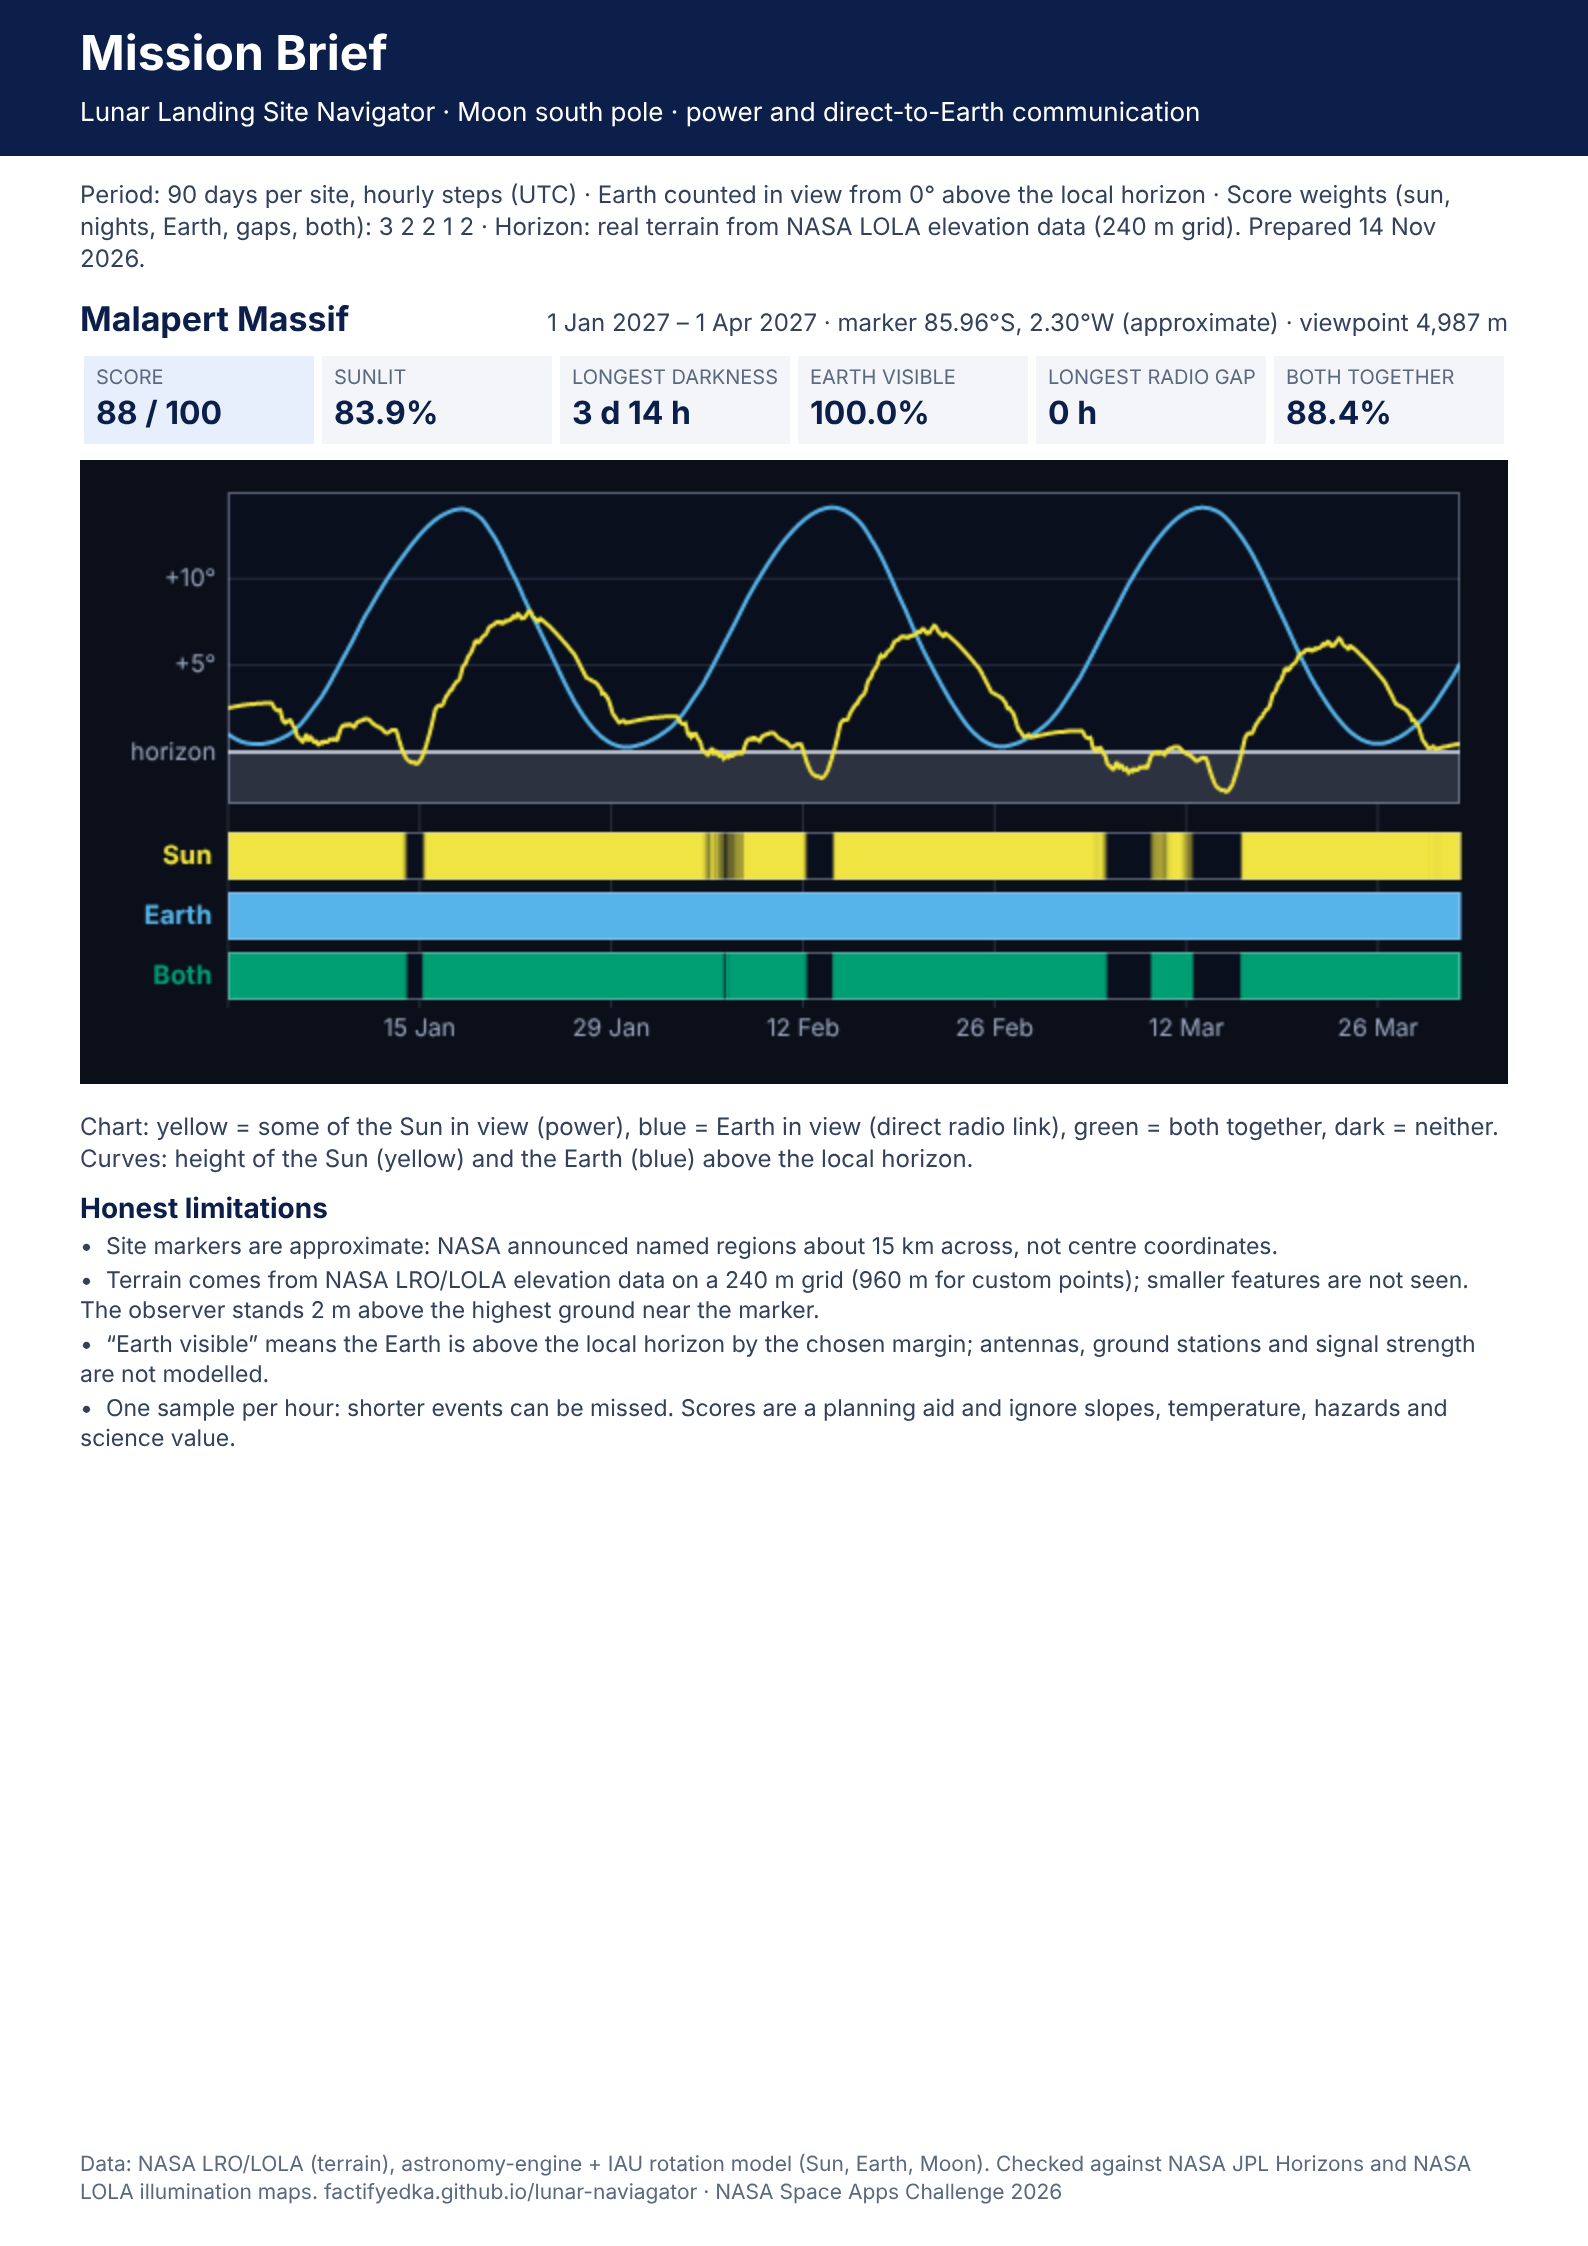
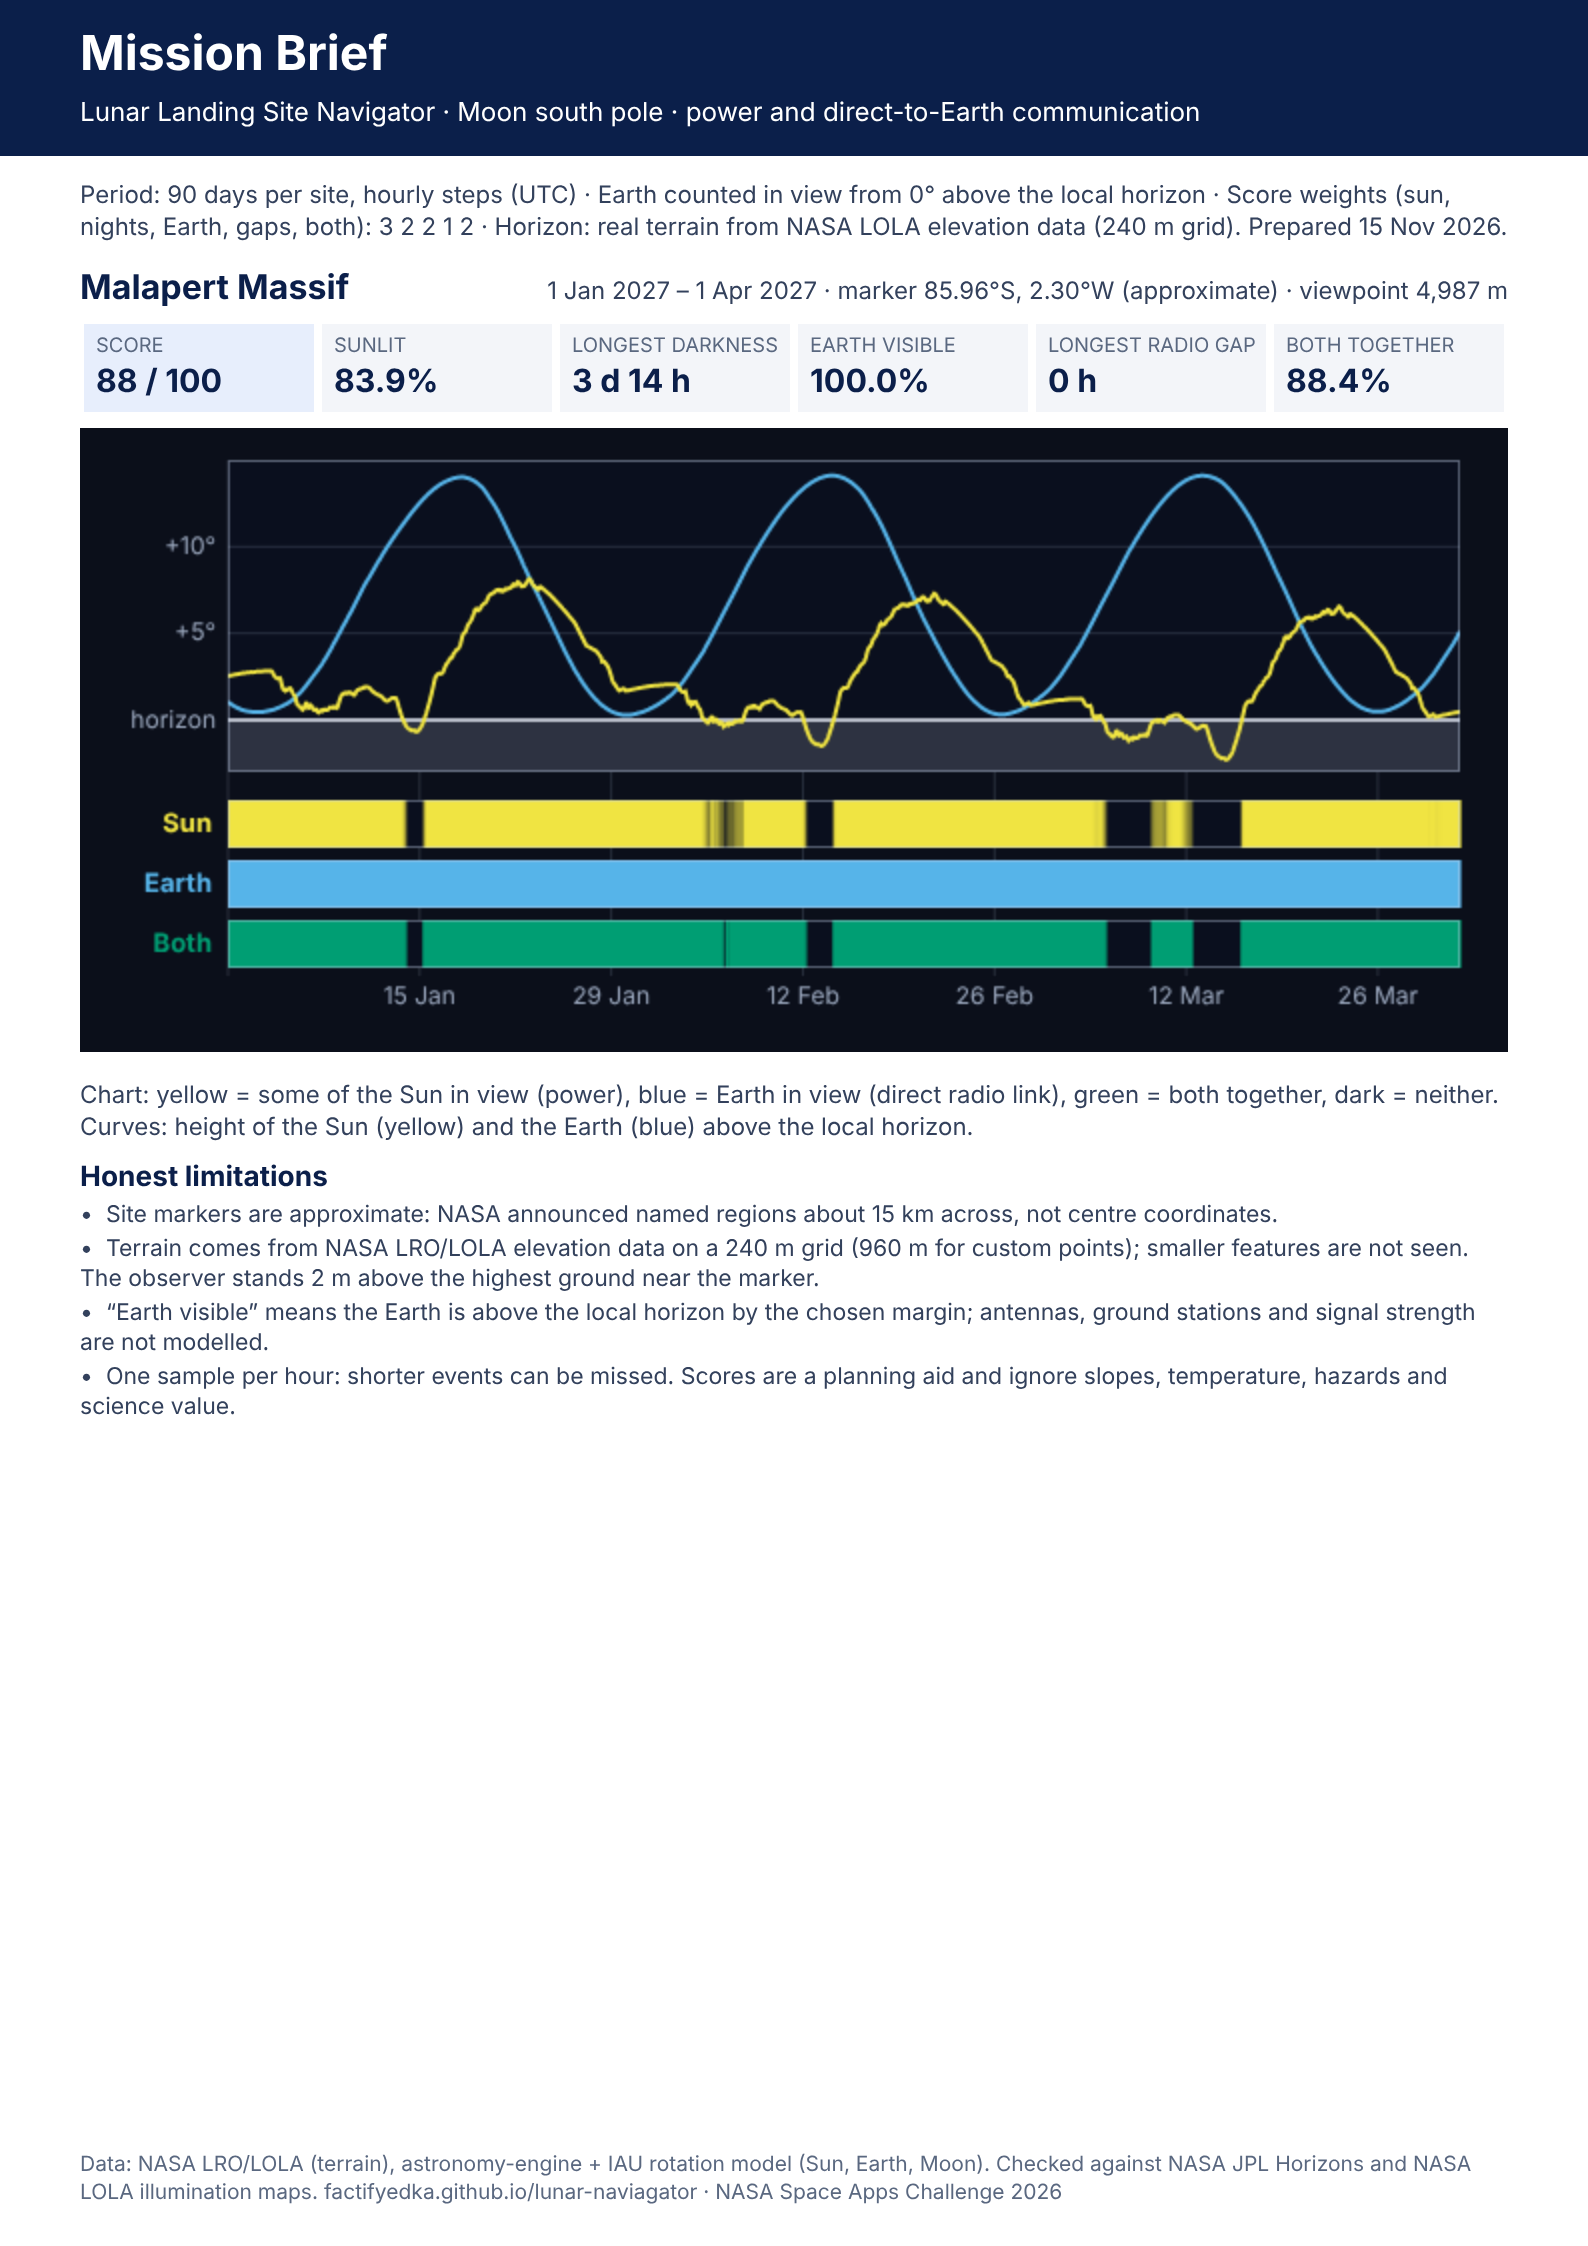
Add team name and member to About, SUBMISSION.md and DEMO.md
Team --pathfinder--, member Kartik Agarwal. The AI-use statement now reads
in the first person, since the team has one member.

Claude-Session: https://claude.ai/code/session_01MwTxFqKq1VnDfMnRqMhdA6

Changed region(s): [[0.0309, 0.0935, 0.9565, 0.6545]]

diff --git a/js/team.js b/js/team.js
@@ -1,4 +1,4 @@
 // Team details shown on the About page. Replace the text between the quotes.
 // (While a value still starts with "[" the app leaves that line out.)
-export const TEAM_NAME = '[TEAM NAME]';
-export const TEAM_MEMBERS = '[MEMBER NAMES]';
+export const TEAM_NAME = '--pathfinder--';
+export const TEAM_MEMBERS = 'Kartik Agarwal';

diff --git a/DEMO.md b/DEMO.md
@@ -2,7 +2,7 @@
 
 Rules followed: maximum 7 slides including the title; English only; big readable text and
 few words; no images of people under 18 (the slides use only app screenshots).
-Replace **[TEAM NAME]** and **[MEMBER NAMES]** before presenting.
+Team: **--pathfinder--** · Member: **Kartik Agarwal**.
 
 Screenshots to use (already in the repository):
 `docs/screenshot-explore.png`, `docs/screenshot-timeline.png`, `docs/screenshot-finder.png`,
@@ -16,10 +16,10 @@ Design tip: dark background, white text, at least 32 pt, one idea per slide.
 - Lunar Landing Site Navigator
 - *Find the light. Keep the link.*
 - NASA Space Apps Challenge 2026 · Challenge: Lunar Landing Site Navigator
-- Team **[TEAM NAME]** — **[MEMBER NAMES]**
+- Team **--pathfinder--** — **Kartik Agarwal**
 
 **Speaker notes**
-"We are [TEAM NAME]. Our project is the Lunar Landing Site Navigator, for the challenge of
+"I am Kartik Agarwal, team --pathfinder--. My project is the Lunar Landing Site Navigator, for the challenge of
 the same name. It helps anyone decide where and when to land near the Moon's south pole."
 
 ---
@@ -110,7 +110,7 @@ and shows pass or fail. Where we simplify, we say so on screen."
 - For planners, classrooms and the public
 - Next: finer terrain, relay satellites, other poles and worlds
 - Try it: factifyedka.github.io/lunar-naviagator
-- Team **[TEAM NAME]**
+- Team **--pathfinder--** · Kartik Agarwal
 
 **Speaker notes**
 "It is free, needs no login and runs on a tablet, even without a network after the first
@@ -125,7 +125,7 @@ try it yourself."
 
 | Time | Picture | Voice-over |
 |------|---------|------------|
-| 0–5 s | Title card: project name, tagline, team name | "We are [TEAM NAME], and this is the Lunar Landing Site Navigator." |
+| 0–5 s | Title card: project name, tagline, team name | "I am Kartik Agarwal, team --pathfinder--, and this is the Lunar Landing Site Navigator." |
 | 5–11 s | Map, then time-lapse of the Sun skimming the horizon | "At the Moon's south pole the Sun skims the horizon and the Earth plays hide-and-seek. No Sun, no power. No Earth, no radio." |
 | 11–16 s | Tap a site; horizon view with real skyline | "Find the light. Keep the link. Tap any landing site to see the Sun and the Earth against the real skyline." |
 | 16–24 s | Timeline strips, best-window ranking, then a spin of the 3D Moon | "Using NASA's lunar terrain data, it shows when you have power and contact, scores every site, and finds your best landing window." |

diff --git a/SUBMISSION.md b/SUBMISSION.md
@@ -1,12 +1,12 @@
 # SUBMISSION — ready-to-paste texts
 
 NASA Space Apps Challenge 2026 · Challenge: **Lunar Landing Site Navigator**
-Team: **[TEAM NAME]** · Members: **[MEMBER NAMES]**
+Team: **--pathfinder--** · Member: **Kartik Agarwal**
 
 - Live project: https://factifyedka.github.io/lunar-naviagator/
 - Code: https://github.com/factifyedKA/lunar-naviagator
 
-> Before pasting: replace [TEAM NAME] and [MEMBER NAMES], and open the live link once to
+> Before pasting: open the live link once to
 > confirm it loads without a login.
 
 ---
@@ -129,8 +129,8 @@ requests: astronomy-engine (ephemeris) and Three.js (3D Moon tab only).
 
 ## Use of Artificial Intelligence
 Claude, an AI model made by Anthropic, was used to help write the code, the automated
-tests and the documentation of this project. I and my team made the decisions, tested the
-tool and checked the results. No AI-generated images, audio or video are used. The numbers
+tests and the documentation of this project. I made the decisions, tested the tool and
+checked the results. No AI-generated images, audio or video are used. The numbers
 shown in the tool do not come from an AI: they are computed from NASA data and published
 models, and the Validation page compares them with NASA reference values every time it is
 opened. The simple diagrams in the Learn tour, the app icon and the 3D Moon texture were
